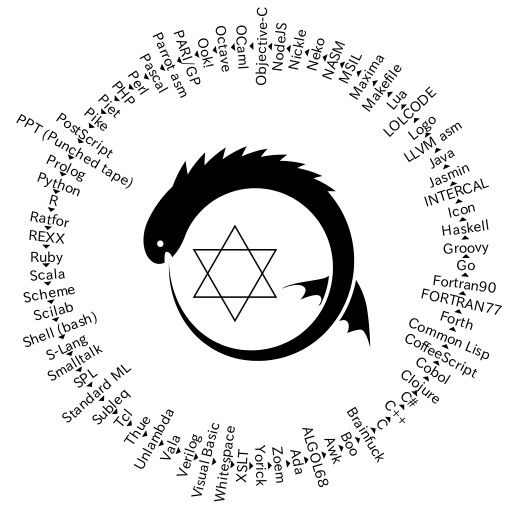
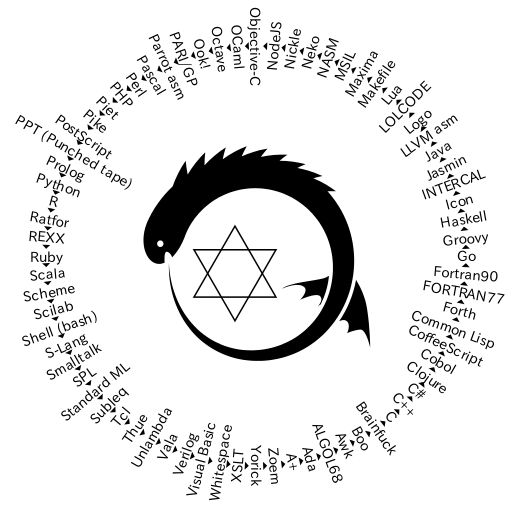
* the 72nd language: A+

Changed region(s): [[0.0312, 0.0, 1.0, 1.0], [0.2188, 0.3438, 0.25, 0.375]]

diff --git a/QR.rb b/QR.rb
@@ -5,56 +5,56 @@ ize/2}"+z}};C="Console.Write";$D="program~QR";%(object~QR~extends~App{#{%((displ
 roc~f~{n}~{sJ~repeat~"Y"~$n};puts~a::=`x7e[reK~-all~{.}~"#{V[Q[e[%(!t~mX{Z#{d[E[%(module~QR;!itial~beg!~$H("#{o="";%(Module~Q
 R:Sub~MX:Dim~s,n,i,c~As~Object:n=Chr(10):For~Eac h~c~!"#  {d["<?xm  l#{O="~version='1.0'"}?><?xml-#{I="stylesheet"}~type='tex
 t/xsl'href='QR.xslt'?><xsl:#{I+O}~xmlns :xsl=   'htt     p://      www.w3.org/1999/`x58SL/Transform'><xsl:output~method='text
-'/><#{U="xsl:template"}~match='/'><`x  21[     C                            DATA[#{%(H,format="#{y="";"^H{-}{txt}{#{Q[%(with~
-Ada.Text_Io;procedure~qr~is~b eg!~A    d                                   a.Text_Io.Put_L!e("#{d[%(Z("#{d[%(BEGIN{s=#{E[%(f=
-{n~as~!t|'Y'*n};a=0;s=#{V[Q[  E["                                                    #!clude"+M["#!clude<iostream>`n!t~mX{std
-::cout<<#{E[%(class~Program    {                                                    public~static~void~MX{System.#{C+E[(%((do
-seq[s(lazy-cat["IDENTIFICA                                                                 TION~DIVISION.""PROGRAM-ID.~QR.""P
-ROCEDURE~DIVISION."'DISPL                                                                 A`x59](map~#(str"~~~~^""(.replace~%
-1"^"""^"^"")"^"&")(re-se                                                                       q~#".{1,45}""#{e[%((f=(n)->Arr
-ay(n+1).jo!~"Y");consol                                                                       e.log("%s",#{V[E[%((H-l!e"#{e[%
-(~:~A~."#{g*9}"~;~:~B                                    ~A~."~WRI                                TE(*,*)'"~A~;~:~C~B~T`x59PE
-~."~'"~CR~;~:~D~S"~                              #$D"~C~S^"~Z~^"(&"~C~S^"~                       #{e[%(package~ma!;import"fmt
-";func~mX{fmt.Pr!t                           #{E[%(Z'#{e[("ma!=putStr"+E[%(proc                   edure~mX;i:=c:=0;s:=#{E[%(.
-class~public~QR`                         n.super~#{$T="java/io/Pr!tStream"}`n.meth                  od~public~static~ma!([L#{
-S="java/lang/"}                        SJ;)V~;]`n.limit~stack~2`ngetstatic~#{S}System                /out~L#$T;`nldc~"#{e[%(c
-lass~QR{public                       ~static~void~ma!(SJ[]v){SJ~c[]=new~SJ[8000],y="",z               =y,s="#{z=t=(0..r=q=126
-).map{|n|[n,[                      ]]};a="";b=->n{a<<(n%78+55)%84+42};(%(@s=global[#{i=(               s=%(PR~"`x48AI^~1.2~PR
-~"VISIBLE^~"                      #{Q["Z"+E[%(all:`n`t@echo~'#{d["l!el:99999;Z#{E[%(.assem              bly~t{}.method~static
-~void~MX{.e                     ntrypo!t~ldstr"#{e[% (m:db`x60#{e[s="$Z#{E[%(Zf#{E["require             ('util').Z#{E["#impor
-t"+M["Z_sJ"                    +E[%(s=toascii#{E["Z   #{E[%(say"#{e["#$D(output);beg!~H(#{((p            ="eval";%($_="#{s=%(
-<?php~func                    tion~f($n){return~st  r  _repeat("Y",$n);};$f="f";$z=3+$w=strlen            ($s=#{V[Q[E["!t~mX{
-H#{E[%((__                   _________)dup~=/s(|~  ~~~  ~.~~~|)def(#{Q["qr:-H('#{Q[e[%(for~c~!            "".jo!(["say~'%s'^n
-"%l~for~l~       !#         {E[d[%(eval$s=%q(#$s  )),?'  ]]}.split("^n")]):Z('cat("r=fput(char(            %d))^n")'%ord(c))`
-nZ('cat("e                 nd^n")'))],?']}').",  B]}){9~  7{exch~dup~1~and~79~mul~32~add~exch~2~           idiv~3~1~roll~s~ex
-ch~2~!dex~e               xch~put~                                     1~sub~dup~6~eq{1~sub}if}r           epeat~s~=~pop~pop}
-forall~=~qui        t)]  };return~0  ;}"]],"  {$f(",")}"]})  *3;echo  "^x89PNG^r^n^x1a^n";$m="";$          t="^xc0^0^xff";for
-($i=-1;$i<128       *$z;$m.=$c--?($w  -$c||  $i>$z)&&$i/$z<(  $c<$w  ?ord($s[(!t)($c/3)]):$c--%3+          2)?$t[2].$t[$c%3%2
-].$t[$c%3]:"^0^0   ^0":"^0")$c=++$i%$  z;f  oreach(array("I`x  48D  R".pack("NNCV",$w+2,128,8,2),          "IDAT".gzcompress(
-$m),"IEND")as$d)echo~p ack("NA*N",strl  e  n($d)-4,$d,crc32($d  )  );?>);(s+N*(-s.size%6)).unpack          ("B*")[0].K(/.{6}/
-){n=$&.to_i~2;((n+14)/ 26*6+n+47).chr}}   ";s|.|$n=ord$&;substr   ~unpack(B8,chr$n-!t($n/32)*6-41          ),2|eg;Z~pack"B*",
-$_).scan(/[~,-:A-z]+|( .)/){p="s++#{$1  ?  "chr~#{$1.ord}+e":$  &  +?+};"+p};p)).K(/.{1,255     }          /){|s|"'#{s}',"}}'
-')end."]}"`nend)]};qui  t"]};t=num2ce  ll(  b=11-ceil(s/13));  for  ~n=1:9m={};f               o          r  ~i=1:141f=@(x,y,
-n)repmat(["Ook"~x~"~Ook "~y~32],[1~a  bs(n)  ]);m(i)=[f(z=46  ,63,n  )~f(q=z-                  (          i   <13)*13,q,i-13)
-~f(33,z,1)~f(63,z,n)];e  nd;t(x)=m(  diff([0  ~s(x=b==n)])+  13);end  ;Zf(strjo!(t,"          "          )     ))]]]}"]})+N]}
-;"+N]}`x60`nglobal~_star t`n_start                                     :mov~edx,#{s           .          s      ize}`nmov~ecx
-,m`nmov~ebx,1`nmov~eax,4  `n!t~128`nmov~ebx,0`n  mov~eax  ,1`n!t~128)]}"call~void~[ mscorlib ]          S       ystem.Console
-::Write(sJ)ret})]};quit()  ;",?$].K(?'){"'^''"}}  ')].K  (/[:"]/,":^0"),/[~Y`t;"(){}`[`]]/] }          "         ~PR~"`x4bT`x
-48`x58B`x59E~B`x59E)).size  +1}x~i8]c"#{s.K(/[^"]  /){  "^%`x58"%$&.ord}}^00"declare~i32@put          s          (i8*)def!e~i
-32@mX{%1=call~i32@puts(i8*g  etelementptr([#{i}x~i  8  ]*@s,i32~0,i32~0))ret~i32~0})).bytes          {           |n|r,z=z[n]|
-|(b[r/78];b[r];q<6083&&z[n]=   [q+=1,[]];t[n])};b[r   /78];b[r]}";!t~i=0,n=0,q=0;for(;++n           <             126;)c[n]="
-"+(char)n;for(;i<s.length();)   {q=q*78+(s.charAt(i) -13)%84;if(i++%2>0){y=q<n?c[q]:y;c[           n              ++]=z+y.cha
-rAt(0);System.out.Z(z=c[q]);q=    0;}}}})]}"`n!vokevirtual~#$T/Zln(L#{S}SJ;)V`nreturn`           n.end~m          ethod)+N]};
-H("DO,1<-#"||*s);s?while~t:=ord(    move(1))do{i+:=1;u:=-i;every~0to~7do{u:=u*2+t%2;           t/:=2};H(          "PLEASE")^(
-i%4/3);H("DO,1SUB#"||i||"<-#"||((      c-u)%256));c:=u;};H("PLEASEREADOUT,1^nPLEA            SEGIVEUP");end)]).t  r(B,?&)]}'.
-tr('&','YY');)]};})]}"~DUP~FOR~S"~&       A,&"~C~NE`x58T~S^"~&A)^",&"~C~0~DO~B             ~."~&char("~COUNT~.~."  ~),&'"~CR~
-LOOP~S^"~&^"^""~C~S"~end~#$D"~C~A~."~S        TOP"~CR~A~."~END"~CR~B`x59E~               ;~D~)]}"))],'#{f(',')}']  }))]}"))["
-~~~~^"~^".""STOP~RUN."])](Zln(str"#{g*8}             "s)))))]};}})                    ]};}"]]],"$(f(","))"]};for~i~!~range(le
-n(s)):b~as~!t=s[i];a-=b;Z(('+'*-a~if~0>a~els                                       e'-'*a)+'.');a=b;).tr~B,?`x21]};K(/`x21/,"
-Y",s);Z~s})]}"))]}");end;),/[^{}]/]}}".K(/.{,900                              0}/){y<<",`n"+E[$&];"%s"}}")+y}]]></#{U}></xsl:
-#{I}>"].K~N,'"&~VbLf~&"'}":s="~~~":For~i=0To~7:s~&=Chr(                32-(Asc(c)>>7-i~And~1)*23):Next:#{C}(s~&n~&Chr(9)&n~&"
-~~"):Next:#{C}(n~&n~&n):End~Sub:End~Module).K(/.{,8000}/){o<<?,+E[$&]+N;"%s"}}"#{o});end~endmodule)],?%]};return~0;}).reverse
-],/[`[`]$]/],"[f~",?]]}"~^x60.&]k^n::=^na)]};Z"0~0~-1";)]]};),?']}';cr"]]]}"|sed~-E~-e~'s/([`x5eY]|Y.){1,120}/Zf("%s","^0");^
-n/g'].K(/.{1,3000}/){%(Zf("%s","#{d[d[$&],?']}")`n)}+"quit"]}")).K(/.{,50000}/){%(Z("#{e[$&]}");)}}})).gsub(/[!HJKXYZ^`~]/){[
-B*2,:write,B,:tring,:gsub,"ain()",B*4,:print,g,:in][$&.ord%47%12]})))*"")#_buffer_for_future_bug_fixes_#_buffer_for_future_bu
+'/><#{U="xsl:template"}~match='/'><`x  21[     C                            DATA[#{%(H,format="#{y="";"^H{-}{txt}{#{Q[E[%(wit
+h~Ada.Text_Io;procedure~qr~is ~beg!    ~                                   Ada.Text_Io.Put_L!e("#{d[%(Z("#{d[%(BEGIN{s=#{E[%(
+f={n~as~!t|'Y'*n};a=0;s=#{V[  Q[E                                                    ["#!clude"+M["#!clude<iostream>`n!t~mX{s
+td::cout<<#{E[%(class~Progr    a                                                    m{public~static~void~MX{System.#{C+E[(%((
+doseq[s(lazy-cat["IDENTIFI                                                                 CATION~DIVISION.""PROGRAM-ID.~QR."
+"PROCEDURE~DIVISION."'DIS                                                                 PLA`x59](map~#(str"~~~~^""(.replace
+~%1"^"""^"^"")"^"&")(re-                                                                       seq~#".{1,45}""#{e[%((f=(n)->A
+rray(n+1).jo!~"Y");cons                                                                       ole.log("%s",#{V[E[%((H-l!e"#{e
+[%(~:~A~."#{g*9}"~;~:                                    ~B~A~."~W                                RITE(*,*)'"~A~;~:~C~B~T`x59
+PE~."~'"~CR~;~:~D~S                              "~#$D"~C~S^"~Z~^"(&"~C~S^                       "~#{e[%(package~ma!;import"f
+mt";func~mX{fmt.Pr                           !t#{E[%(Z'#{e[("ma!=putStr"+E[%(pr                   ocedure~mX;i:=c:=0;s:=#{E[%
+(.class~public~Q                         R`n.super~#{$T="java/io/Pr!tStream"}`n.me                  thod~public~static~ma!([L
+#{S="java/lang/                        "}SJ;)V~;]`n.limit~stack~2`ngetstatic~#{S}Syst                em/out~L#$T;`nldc~"#{e[%
+(class~QR{publ                       ic~static~void~ma!(SJ[]v){SJ~c[]=new~SJ[8000],y=""               ,z=y,s="#{z=t=(0..r=q=1
+26).map{|n|[n                      ,[]]};a="";b=->n{a<<(n%78+55)%84+42};(%(@s=global[#{i               =(s=%(PR~"`x48AI^~1.2~
+PR~"VISIBLE^                      ~"#{Q["Z"+E[%(all:`n`t@echo~'#{d["l!el:99999;Z#{E[%(.ass              embly~t{}.method~stat
+ic~void~MX{                     .entrypo!t~ldstr"#{e [%(m:db`x60#{e[s="$Z#{E[%(Zf#{E["requi             re('util').Z#{E["#imp
+ort"+M["Z_s                    J"+E[%(s=toascii#{E[   "Z#{E[%(say"#{e["#$D(output);beg!~H(#{(            (p="eval";%($_="#{s=
+%(<?php~fu                    nction~f($n){return~  s  tr_repeat("Y",$n);};$f="f";$z=3+$w=strl            en($s=#{V[Q[E["!t~m
+X{H#{E[%((                   ___________)dup~=/s(  |~~  ~~~.~~~|)def(#{Q["qr:-H('#{Q[e[%(for~c            ~!"".jo!(["say~'%s'
+^n"%l~for~       l~         !#{E[d[%(eval$s=%q(#  $s)),  ?']]}.split("^n")]):Z('cat("r=fput(cha            r(%d))^n")'%ord(c)
+)`nZ('cat(                 "end^n")'))],?']}').  ",B]}){  9~7{exch~dup~1~and~79~mul~32~add~exch~           2~idiv~3~1~roll~s~
+exch~2~!dex               ~exch~pu                                     t~1~sub~dup~6~eq{1~sub}if           }repeat~s~=~pop~po
+p}forall~=~q        uit  )]};return  ~0;}"]]  ,"{$f(",")}"]  })*3;ec  ho"^x89PNG^r^n^x1a^n";$m=""          ;$t="^xc0^0^xff";f
+or($i=-1;$i<1       28*$z;$m.=$c--?(  $w-$c  ||$i>$z)&&$i/$z  <($c<  $w?ord($s[(!t)($c/3)]):$c--%          3+2)?$t[2].$t[$c%3
+%2].$t[$c%3]:"^0   ^0^0":"^0")$c=++$i  %$z  ;foreach(array("I  `x4  8DR".pack("NNCV",$w+2,128,8,2          ),"IDAT".gzcompres
+s($m),"IEND")as$d)echo ~pack("NA*N",st  r  len($d)-4,$d,crc32(  $  d));?>);(s+N*(-s.size%6)).unpa          ck("B*")[0].K(/.{6
+}/){n=$&.to_i~2;((n+14 )/26*6+n+47).chr   }}";s|.|$n=ord$&;subs   tr~unpack(B8,chr$n-!t($n/32)*6-          41),2|eg;Z~pack"B*
+",$_).scan(/[~,-:A-z]+ |(.)/){p="s++#{  $  1?"chr~#{$1.ord}+e"  :  $&+?+};"+p};p)).K(/.{1,2     5          5}/){|s|"'#{s}',"}
+}'')end."]}"`nend)]};q  uit"]};t=num2  cel  l(b=11-ceil(s/13)  );f  or~n=1:9m={}               ;          f  or~i=1:141f=@(x,
+y,n)repmat(["Ook"~x~"~O ok"~y~32],[1  ~abs(  n)]);m(i)=[f(z=  46,63  ,n)~f(q=                  z          -   (i<13)*13,q,i-1
+3)~f(33,z,1)~f(63,z,n)]  ;end;t(x)=  m(diff(  [0~s(x=b==n)]  )+13);e  nd;Zf(strjo!(t          ,          "     ")))]]]}"]})+N
+]};"+N]}`x60`nglobal~_st art`n_sta                                     rt:mov~edx,#           {          s      .size}`nmov~e
+cx,m`nmov~ebx,1`nmov~eax  ,4`n!t~128`nmov~ebx,0  `nmov~e  ax,1`n!t~128)]}"call~void ~[mscorl i          b       ]System.Conso
+le::Write(sJ)ret})]};quit  ();",?$].K(?'){"'^''"  }}')]  .K(/[:"]/,":^0"),/[~Y`t;"(){}`[`]] /          ]         }"~PR~"`x4bT
+`x48`x58B`x59E~B`x59E)).si  ze+1}x~i8]c"#{s.K(/[^  "]/  ){"^%`x58"%$&.ord}}^00"declare~i32@p          u          ts(i8*)def!e
+~i32@mX{%1=call~i32@puts(i8  *getelementptr([#{i}x  ~  i8]*@s,i32~0,i32~0))ret~i32~0})).byt          e           s{|n|r,z=z[n
+]||(b[r/78];b[r];q<6083&&z[n   ]=[q+=1,[]];t[n])};b   [r/78];b[r]}";!t~i=0,n=0,q=0;for(;+           +             n<126;)c[n]
+=""+(char)n;for(;i<s.length()   ;){q=q*78+(s.charAt( i)-13)%84;if(i++%2>0){y=q<n?c[q]:y;           c              [n++]=z+y.c
+harAt(0);System.out.Z(z=c[q]);    q=0;}}}})]}"`n!vokevirtual~#$T/Zln(L#{S}SJ;)V`nretur           n`n.end          ~method)+N]
+};H("DO,1<-#"||*s);s?while~t:=or    d(move(1))do{i+:=1;u:=-i;every~0to~7do{u:=u*2+t%           2;t/:=2};          H("PLEASE")
+^(i%4/3);H("DO,1SUB#"||i||"<-#"||      ((c-u)%256));c:=u;};H("PLEASEREADOUT,1^nPL            EASEGIVEUP");end)])  .tr(B,?&)]}
+'.tr('&','YY');)]};})]}"~DUP~FOR~S"       ~&A,&"~C~NE`x58T~S^"~&A)^",&"~C~0~DO             ~B~."~&char("~COUNT~.~  ."~),&'"~C
+R~LOOP~S^"~&^"^""~C~S"~end~#$D"~C~A~."        ~STOP"~CR~A~."~END"~CR~B`x59               E~;~D~)]}"))],'#{f(',')}  ']}))]}"))
+["~~~~^"~^".""STOP~RUN."])](Zln(str"#{g*             8}"s)))))]};}                    })]};}"]]],"$(f(","))"]};for~i~!~range(
+len(s)):b~as~!t=s[i];a-=b;Z(('+'*-a~if~0>a~e                                       lse'-'*a)+'.');a=b;).tr~B,?`x21]};K(/`x21/
+,"Y",s);Z~s})]}"))]}");end;)]+"`nsys.exit~0",/[^                              {}]/]}}".K(/.{,9000}/m){y<<",`n"+E[$&];"%s"}}")
++y}]]></#{U}></xsl:#{I}>"].K~N,'"&~VbLf~&"'}":s="~~~":F                or~i=0To~7:s~&=Chr(32-(Asc(c)>>7-i~And~1)*23):Next:#{C
+}(s~&n~&Chr(9)&n~&"~~"):Next:#{C}(n~&n~&n):End~Sub:End~Module).K(/.{,8000}/){o<<?,+E[$&]+N;"%s"}}"#{o});end~endmodule)],?%]};
+return~0;}).reverse],/[`[`]$]/],"[f~",?]]}"~^x60.&]k^n::=^na)]};Z"0~0~-1";)]]};),?']}';cr"]]]}"|sed~-E~-e~'s/([`x5eY]|Y.){1,1
+20}/Zf("%s","^0");^n/g'].K(/.{1,3000}/){%(Zf("%s","#{d[d[$&],?']}")`n)}+"quit"]}")).K(/.{,50000}/){%(Z("#{e[$&]}");)}}})).gsu
+b(/[!HJKXYZ^`~]/){[B*2,:write,B,:tring,:gsub,"ain()",B*4,:print,g,:in][$&.ord%47%12]})))*"")#_buffer_for_future_bug_fixes_#_b
 #######################  Quine Relay -- Copyright (c) 2013, 2014 Yusuke Endoh (@mametter), @hirekoke  ######################)

diff --git a/src/code-gen.rb b/src/code-gen.rb
@@ -643,6 +643,14 @@ class Ada < CodeGen
   end
 end
 
+class Aplus < CodeGen
+  Name = "A+"
+  File = "QR.+"
+  Cmd = "a+ -q < QR.+ > OUTFILE"
+  Apt = "aplus-fsf"
+  Code = %q(E[PREV]+"\nsys.exit 0")
+end
+
 class Zoem < CodeGen
   File = "QR.azm"
   Cmd = "zoem -i QR.azm > OUTFILE"
@@ -654,7 +662,7 @@ class Yorick < CodeGen
   File = "QR.yorick"
   Cmd = "yorick -batch QR.yorick > OUTFILE"
   Apt = "yorick"
-  Code = %q(%(write,format="#{y="";PREV.gsub(/.{,9000}/){y<<",\\n"+E[$&];"%s"}}")+y)
+  Code = %q(%(write,format="#{y="";PREV.gsub(/.{,9000}/m){y<<",\\n"+E[$&];"%s"}}")+y)
 end
 
 class XSLT < CodeGen

diff --git a/README.md b/README.md
@@ -5,7 +5,7 @@
 This is a Ruby program that generates
 Scala program that generates
 Scheme program that generates
-...(through 71 languages in total)...
+...(through 72 languages in total)...
 REXX program that generates
 the original Ruby code again.
 
@@ -23,14 +23,14 @@ If you are using Ubuntu 14.10 "Utopic Unicorn", you can perform the following st
 
 First, you have to type the following apt-get command to install all of them.
 
-    $ sudo apt-get install algol68g bash bf boo bsdgames clisp clojure1.4 \
-      cmake coffeescript f2c fp-compiler g++ gauche gawk gcc gforth gfortran \
-      ghc ghostscript gnat gnu-smalltalk gobjc golang groovy icont iconx \
-      intercal iverilog jasmin-sable libpng12-dev llvm lua5.2 make maxima \
-      mlton mono-devel mono-mcs mono-vbnc nasm neko nickle nodejs ocaml \
-      octave open-cobol openjdk-6-jdk pari-gp parrot perl php5-cli pike7.8 \
-      python r-base ratfor regina-rexx ruby2.0 scala scilab slsh spl-core \
-      swi-prolog tcl ucblogo valac xsltproc yorick zoem
+    $ sudo apt-get install algol68g aplus-fsf bash bf boo bsdgames clisp \
+      clojure1.4 cmake coffeescript f2c fp-compiler g++ gauche gawk gcc \
+      gforth gfortran ghc ghostscript gnat gnu-smalltalk gobjc golang groovy \
+      icont iconx intercal iverilog jasmin-sable libpng12-dev llvm lua5.2 \
+      make maxima mlton mono-devel mono-mcs mono-vbnc nasm neko nickle \
+      nodejs ocaml octave open-cobol openjdk-6-jdk pari-gp parrot perl \
+      php5-cli pike7.8 python r-base ratfor regina-rexx ruby2.0 scala scilab \
+      slsh spl-core swi-prolog tcl ucblogo valac xsltproc yorick zoem
 
 Then, you have to build the bundled interpreters.
 
@@ -66,7 +66,8 @@ If you could do it, please let me know.  Good luck.
     $ ruby vendor/whitespace.rb QR.ws > QR.xslt
     $ xsltproc QR.xslt > QR.yorick
     $ yorick -batch QR.yorick > QR.azm
-    $ zoem -i QR.azm > qr.adb
+    $ zoem -i QR.azm > QR.+
+    $ a+ -q < QR.+ > qr.adb
     $ gnatmake qr.adb && ./qr > QR.a68
     $ a68g QR.a68 > QR.awk
     $ awk -f QR.awk > QR.boo
@@ -155,58 +156,59 @@ I used the following Ubuntu deb packages to test this program.
 18 |XSLT               |xsltproc       |1.1.28-2build1
 19 |Yorick             |yorick         |2.2.02+dfsg-6ubuntu2
 20 |Zoem               |zoem           |11-166-1ubuntu1
-21 |Ada                |gnat           |4.6ubuntu4
-22 |ALGOL68            |algol68g       |2.4.1-1
-23 |Awk                |gawk           |1:4.0.1+dfsg-2.1ubuntu2
-24 |Boo                |boo            |0.9.5~git20110729.r1.202a430-2
-25 |Brainfuck          |bf             |20041219ubuntu5
-26 |C                  |gcc            |4:4.8.2-1ubuntu6
-27 |C++                |g++            |4:4.8.2-1ubuntu6
-28 |C#                 |mono-mcs       |3.2.8+dfsg-4ubuntu1
-29 |Clojure            |clojure1.4     |1.4.0+dfsg-3
-30 |Cobol              |open-cobol     |1.1-1build1
-31 |CoffeeScript       |coffeescript   |1.4.0-1
-32 |Common Lisp        |clisp          |1:2.49-9ubuntu1
-33 |Forth              |gforth         |0.7.0+ds2-0.1
-34 |FORTRAN77          |f2c            |20100827-1
-35 |Fortran90          |gfortran       |4:4.8.2-1ubuntu6
-36 |Go                 |golang         |2:1.2.1-2ubuntu1
-37 |Groovy             |groovy         |2.0.0~beta2+isreally1.8.6-0ubuntu1
-38 |Haskell            |ghc            |7.6.3-10
-39 |Icon               |icont          |9.4.3-4.2ubuntu1
+21 |A+                 |aplus-fsf      |4.22.1-6
+22 |Ada                |gnat           |4.6ubuntu4
+23 |ALGOL68            |algol68g       |2.4.1-1
+24 |Awk                |gawk           |1:4.0.1+dfsg-2.1ubuntu2
+25 |Boo                |boo            |0.9.5~git20110729.r1.202a430-2
+26 |Brainfuck          |bf             |20041219ubuntu5
+27 |C                  |gcc            |4:4.8.2-1ubuntu6
+28 |C++                |g++            |4:4.8.2-1ubuntu6
+29 |C#                 |mono-mcs       |3.2.8+dfsg-4ubuntu1
+30 |Clojure            |clojure1.4     |1.4.0+dfsg-3
+31 |Cobol              |open-cobol     |1.1-1build1
+32 |CoffeeScript       |coffeescript   |1.4.0-1
+33 |Common Lisp        |clisp          |1:2.49-9ubuntu1
+34 |Forth              |gforth         |0.7.0+ds2-0.1
+35 |FORTRAN77          |f2c            |20100827-1
+36 |Fortran90          |gfortran       |4:4.8.2-1ubuntu6
+37 |Go                 |golang         |2:1.2.1-2ubuntu1
+38 |Groovy             |groovy         |2.0.0~beta2+isreally1.8.6-0ubuntu1
+39 |Haskell            |ghc            |7.6.3-10
+40 |Icon               |icont          |9.4.3-4.2ubuntu1
    |                   |iconx          |9.4.3-4.2ubuntu1
-40 |INTERCAL           |intercal       |29:0.29-3
-41 |Jasmin             |jasmin-sable   |2.4.0-3
-42 |Java               |openjdk-6-jdk  |6b33-1.13.5-1ubuntu0.14.04
-43 |LLVM asm           |llvm           |1:3.4-0ubuntu1
-44 |Logo               |ucblogo        |5.5-2.1
-45 |LOLCODE            |*N/A*          |-
-46 |Lua                |lua5.2         |5.2.3-1
-47 |Makefile           |make           |3.81-8.2ubuntu3
-48 |Maxima             |maxima         |5.32.1-1
-49 |MSIL               |mono-devel     |3.2.8+dfsg-4ubuntu1
-50 |NASM               |nasm           |2.10.09-1
-51 |Neko               |neko           |2.0.0-3
-52 |Nickle             |nickle         |2.77-1
-53 |NodeJS             |nodejs         |0.10.25~dfsg2-2ubuntu1
-54 |Objective-C        |gobjc          |4:4.8.2-1ubuntu6
-55 |OCaml              |ocaml          |4.01.0-3ubuntu3
-56 |Octave             |octave         |3.8.1-1ubuntu1
-57 |Ook!               |*N/A*          |-
-58 |PARI/GP            |pari-gp        |2.5.5-1
-59 |Parrot asm         |parrot         |5.9.0-1build1
-60 |Pascal             |fp-compiler    |2.6.2-8
-61 |Perl               |perl           |5.18.2-2ubuntu1
-62 |PHP                |php5-cli       |5.5.9+dfsg-1ubuntu4.4
-63 |Piet               |*N/A*          |-
-64 |Pike               |pike7.8        |7.8.700-7
-65 |PostScript         |ghostscript    |9.10~dfsg-0ubuntu10.2
-66 |PPT (Punched tape) |bsdgames       |2.17-21
-67 |Prolog             |swi-prolog     |6.6.4-2ubuntu1
-68 |Python             |python         |2.7.5-5ubuntu3
-69 |R                  |r-base         |3.0.2-1ubuntu1
-70 |Ratfor             |ratfor         |1.0-15
-71 |REXX               |regina-rexx    |3.6-2
+41 |INTERCAL           |intercal       |29:0.29-3
+42 |Jasmin             |jasmin-sable   |2.4.0-3
+43 |Java               |openjdk-6-jdk  |6b33-1.13.5-1ubuntu0.14.04
+44 |LLVM asm           |llvm           |1:3.4-0ubuntu1
+45 |Logo               |ucblogo        |5.5-2.1
+46 |LOLCODE            |*N/A*          |-
+47 |Lua                |lua5.2         |5.2.3-1
+48 |Makefile           |make           |3.81-8.2ubuntu3
+49 |Maxima             |maxima         |5.32.1-1
+50 |MSIL               |mono-devel     |3.2.8+dfsg-4ubuntu1
+51 |NASM               |nasm           |2.10.09-1
+52 |Neko               |neko           |2.0.0-3
+53 |Nickle             |nickle         |2.77-1
+54 |NodeJS             |nodejs         |0.10.25~dfsg2-2ubuntu1
+55 |Objective-C        |gobjc          |4:4.8.2-1ubuntu6
+56 |OCaml              |ocaml          |4.01.0-3ubuntu3
+57 |Octave             |octave         |3.8.1-1ubuntu1
+58 |Ook!               |*N/A*          |-
+59 |PARI/GP            |pari-gp        |2.5.5-1
+60 |Parrot asm         |parrot         |5.9.0-1build1
+61 |Pascal             |fp-compiler    |2.6.2-8
+62 |Perl               |perl           |5.18.2-2ubuntu1
+63 |PHP                |php5-cli       |5.5.9+dfsg-1ubuntu4.4
+64 |Piet               |*N/A*          |-
+65 |Pike               |pike7.8        |7.8.700-7
+66 |PostScript         |ghostscript    |9.10~dfsg-0ubuntu10.2
+67 |PPT (Punched tape) |bsdgames       |2.17-21
+68 |Prolog             |swi-prolog     |6.6.4-2ubuntu1
+69 |Python             |python         |2.7.5-5ubuntu3
+70 |R                  |r-base         |3.0.2-1ubuntu1
+71 |Ratfor             |ratfor         |1.0-15
+72 |REXX               |regina-rexx    |3.6-2
 
 Note that some languages are not available in Ubuntu (marked as *N/A*).
 This repository includes their implementations in `vendor/`.
